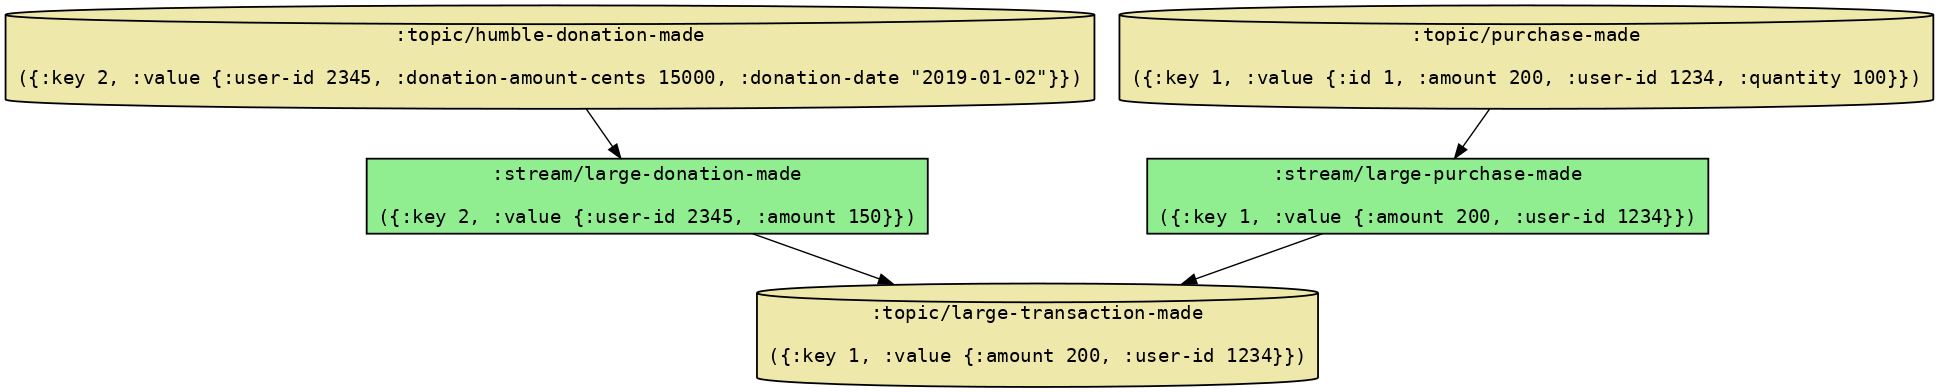
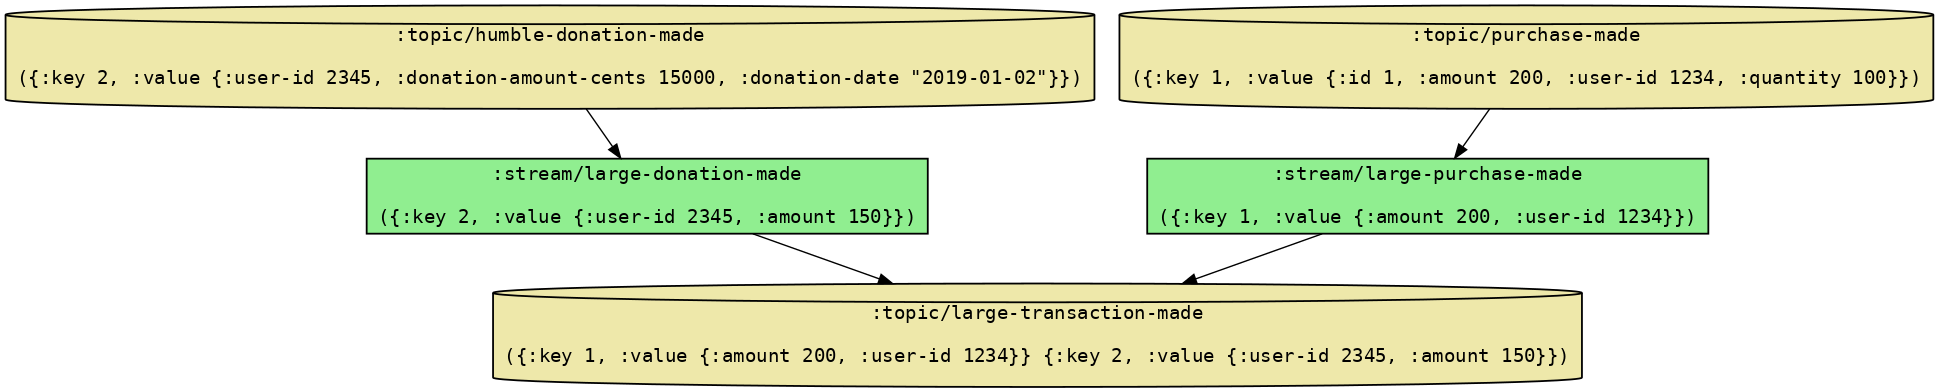
Improved draft

Changed region(s): [[0.2476, 0.7041, 0.8355, 1.0]]

diff --git a/content/posts/kafka-streams-the-clojure-way.md b/content/posts/kafka-streams-the-clojure-way.md
@@ -4,7 +4,9 @@ date: 2019-08-14T00:00:00+01:00
 draft: true
 ---
 
-In this blog post, I'll walk you through how to create a Kafka Streams application in an idiomatic Clojure style. I won't assume any knowledge of Kafka or Kafka Streams, but if you've never heard of them before I'd check out Confluent's [introduction to Kafka Streams](https://www.confluent.io/blog/introducing-kafka-streams-stream-processing-made-simple/), and also the [Kafka Streams docs](https://kafka.apache.org/documentation/streams/). Kafka can be thought of as a persistent, highly scalable, distributed message queue. Kafka stores all messages in "topics", which can be produced to and consumed from. Kafka Streams is an abstraction on top of Kafka, which treats topics as a reactive stream of data onto which you can apply transformations (`map`, `filter`, etc.). It also gives you a way performing stateful aggregations, in such a way that your application can be safely restarted. 
+In this blog post, I'll walk you through how to create a Kafka Streams application in an idiomatic Clojure style. I won't assume any knowledge of Kafka or Kafka Streams, but if you've never heard of them before this post may be a bit overwhelming - I'd check out Confluent's [introduction to Kafka Streams](https://www.confluent.io/blog/introducing-kafka-streams-stream-processing-made-simple/), and also the [Kafka Streams docs](https://kafka.apache.org/documentation/streams/). 
+
+Kafka can be thought of as a persistent, highly scalable, distributed message queue. Kafka stores all messages in "topics", which can be produced to and consumed from. Kafka Streams is an abstraction on top of Kafka, which treats topics as a reactive stream of data onto which you can apply transformations (`map`, `filter`, etc.). It also gives you a way performing stateful aggregations, in such a way that your application can be safely restarted. 
 
 The Java API for Kafka Streams is very powerful, but has a few drawbacks. It gives you a mutable [StreamsBuilder](http://kafka.apache.org/23/javadoc/org/apache/kafka/streams/StreamsBuilder.html) object, on which you call methods like `.map(...)` and `.filter(...)`. You use this builder object to build a [Topology](https://kafka.apache.org/23/javadoc/org/apache/kafka/streams/Topology.html), a logical representation of your application as a graph of processing nodes. You then use the `Topology` to initialise a [KafkaStreams](http://kafka.apache.org/23/javadoc/org/apache/kafka/streams/KafkaStreams.html) object, which executes the topology's logic. We'll develop an application in this style using the [Jackdaw](https://github.com/FundingCircle/jackdaw) library, a Clojure library for Kafka, and then evolve it into a more idiomatic, data-driven style. All the code I'm going to show you is in [this walkthrough repo](https://github.com/DaveWM/kafka-streams-the-clojure-way), so clone it now if you'd like to follow along. 
 
@@ -35,8 +37,9 @@ We'll start by creating the `purchase-made` and `large-transaction-made` topics.
 ;; create the "purchase-made" and "large-transaction-made" topics
 (ja/create-topics! admin-client [purchase-made-topic large-transaction-made-topic])
 ```
+By the way - all the commands we're going to run are in the comment block at the bottom of the `kafka-streams-the-clojure-way.core` namespace. 
 
-We now need to produce some dummy messages onto the `purchase-made` topic. To do this, we’ll create a `Producer` object and pass it to Jackdaw's `produce!` function.  In production code for an API, you’d most likely create a `Producer` when the application starts up, then call `produce!` in the appropriate request handler function. For now, let’s just pretend that we've made a few purchases by producing some messages to the `purchase-made` topic from the repl. These messages are going to look like this:
+We now need to produce some dummy messages onto the `purchase-made` topic. These messages are going to look like this:
 
 ```
 {:id 1
@@ -45,43 +48,46 @@ We now need to produce some dummy messages onto the `purchase-made` topic. To do
  :quantity 5}
 ```
 
-Now we're going to produce a few dummy messages to the `purchase-made` topic. We've already got a `make-purchase!` function defined for us in the `kafka-streams-the-clojure-way.core` namespace, so just run these commands: 
+We've already got a `make-purchase!` function defined for us in the `kafka-streams-the-clojure-way.core` namespace, so just run these commands: 
 
-```
+```clojure
 ;; Make a few dummy purchases
 (make-purchase! 10)
 (make-purchase! 500)
 (make-purchase! 50)
 (make-purchase! 1000)
 ```
+If you're interested in how `make-purchase!` works, check out the code in the walkthrough repo. It uses the Kafka (not Kafka _Streams_) API, so I'll just gloss over it here.
 
  You should see in the [fast-data-dev UI](http://localhost:3030/kafka-topics-ui/#/cluster/fast-data-dev/topic/n/purchase-made/) that messages appear in the topic. Now we have a topic with some dummy data in it, we can start writing our Kafka Streams topology. This is already defined in the walkthrough repo, here's the code:
 
 ```
 (defn simple-topology [builder]
-  (-> ;; Read from the purchase-made topic
+  (-> ;; Read the purchase-made topic into a KStream
       (js/kstream builder purchase-made-topic)
-      ;; Filter for purchases greater than £100
+      ;; Filter the KStream for purchases greater than £100
       (js/filter (fn [[_ purchase]]
                    (<= 100 (:amount purchase))))
       ;; Remove all but the :amount and :user-id fields from the message.
-	  ;; Note that the function passed to map takes and returns a tuple of [key value].
+      ;; Note that the function passed to map takes and returns a tuple of [key value].
       (js/map (fn [[key purchase]]
                 [key (select-keys purchase [:amount :user-id])]))
-	  ;; Write to the large-transaction-made topic
-      (js/to large-transaction-made-topic)))
-	  
-(defn start! [topology-fn]
+      ;; Write our KStream to the large-transaction-made topic
+      (js/to large-transaction-made-topic))) 
+
+(defn start! []
+  "Starts the simple topology"
   (let [builder (js/streams-builder)]
-    (topology-fn builder)
+    (simple-topology builder)
     (doto (js/kafka-streams builder kafka-config)
       (js/start))))
 
 (defn stop! [kafka-streams-app]
+  "Stops the given KafkaStreams application"
   (js/close kafka-streams-app))
 ```
 
-Run `(start! simple-topology)` in the repl to start the topology. You should shortly see messages appear on the `large-transaction-made` topic. Magic! Try producing some more messages to the `purchase-made` topic, and your topology should pick them up and process them immediately. When you're ready to move on, run `(stop!)` to stop the topology.
+Run `(def app (start!))` in the repl to start the topology. You should shortly see messages appear on the `large-transaction-made` topic. Magic! Try producing some more messages to the `purchase-made` topic, and your topology should pick them up and process them immediately. When you're ready to move on, run `(stop! app)` to stop the topology.
 
 
 ## Introducing Transducers
@@ -90,11 +96,12 @@ Run `(start! simple-topology)` in the repl to start the topology. You should sho
 We’ve made a good start, but there are a few problems with our code at the moment. One is that our code is not as easy to test as it could be. We can’t directly test the logic of our topology, because it’s tied to the Kafka Streams API. You can use Kafka's [TopologyTestDriver](https://kafka.apache.org/11/javadoc/org/apache/kafka/streams/TopologyTestDriver.html) to run your topology in memory, but this can be quite cumbersome. It would be much easier if we could express our topology's logic as pure functions, and then then test them. Secondly, our code isn’t very composable. If you have 2 separate topologies, there is no easy way of merging them together. Thirdly, the code is tied to a specific context - Kafka Streams. If you want to re-use the same logic for transforming, for example, a core.async channel you’d be forced to re-write it. 
 
 
-To alleviate these problems, we’re going to use [transducers](https://clojure.org/reference/transducers). Transducers are "a powerful and composable way to build algorithmic transformations that you can reuse in many contexts”. If you’re not familiar with them already, you may want to check out [this introductory blog post](http://blog.cognitect.com/blog/2014/8/6/transducers-are-coming). Let’s write a transducer that captures the logic of our topology:
+To alleviate these problems, we’re going to use [transducers](https://clojure.org/reference/transducers). Transducers are "a powerful and composable way to build algorithmic transformations that you can reuse in many contexts”. Basically, they allow you to encapsulate the logic of transforming a stream of data, without specific knowledge of what the stream _is_. The stream could be a seq, a core.async channel, or a Kafka topic. If you’re not familiar with them already, you may want to check out [this introductory blog post](http://blog.cognitect.com/blog/2014/8/6/transducers-are-coming). Let’s write a transducer that captures the logic of our topology:
 
 ```
 (def purchase-made-transducer
   (comp
+    ;; Note that each step takes a [key value] tuple
     (filter (fn [[_ purchase]]
               (<= 100 (:amount purchase))))
     (map (fn [[key purchase]]
@@ -106,11 +113,11 @@ We can easily test the transducer in the repl like this:
 ```
 (into []
       purchase-made-transducer
-      [[1 {:purchase-id 1 :user-id 2 :amount 10}]
-       [3 {:purchase-id 3 :user-id 4 :amount 500}]])
+      [[1 {:purchase-id 1 :user-id 2 :amount 10 :quantity 1}]
+       [3 {:purchase-id 3 :user-id 4 :amount 500 :quantity 100}]])
 ```
 
-We've successfully isolated the logic of our topology as a pure function. This enables us to easily test our topology's logic. Now we'll update our topology to use this transducer. We're going to introduce the `transduce-stream` function here - you don't need to know exactly how it works, only that it applies a transducer to a `KStream`.
+We've successfully isolated the logic of our topology as a pure function. This enables us to easily test our topology's logic. Now we'll update our topology to use this transducer. We're going to use the `transduce-stream` function here - you don't need to know exactly how it works, only that it applies a transducer to a `KStream`.
 
 ```
 (defn build-topology-with-transducer [builder]
@@ -133,19 +140,17 @@ Unfortunately, your boss now comes to you with another requirement (as they alwa
  ```
 
 
-We’ll need to apply a transducer to the `humble-donation-made`, then use the Kafka Streams `merge` function to merge it with the `purchase-made` stream. Let's start with the transducer for the `humble-donation-made` topic:
+We’ll need to create a `KStream` from the `humble-donation-made` topic, apply a transducer to it, then use Jackdaw's `merge` function to merge it with the `KStream` from our previous topology. Let's start with the transducer for the `humble-donation-made` topic:
 ```
 (def humble-donation-made-transducer
   (comp
+    ;; Again, each step takes a [key value] tuple
     (filter (fn [[_ donation]]
               (<= 10000 (:donation-amount-cents donation))))
     (map (fn [[key donation]]
            [key {:user-id (:user-id donation)
                  :amount (int (/ (:donation-amount-cents donation) 100))}]))))
 ```
-
-
-
 
 Now for the topology itself, this is what the code looks like:
 
@@ -164,26 +169,32 @@ This will work, but we’ve re-introduced all the problems we had before we star
 
 ## Introducing Willa
 
-[Willa](https://github.com/DaveWM/willa) is just such a library. It allows you to express your topology as data and functions, rather than using the mutable `StreamsBuilder` API. Full disclosure - I’m the author of Willa, so if you’re looking for an unbiased critique of it, I’d just stop reading now. Let’s see how it would affect our code. We’ll start by defining all our topics and streams. Willa calls these things “entities”, and you define them like so:
+[Willa](https://github.com/DaveWM/willa) is just such a library. It allows you to express your topology as data and functions, rather than using the mutable `StreamsBuilder` API. Full disclosure - I’m the author of Willa, so if you’re looking for an unbiased critique of it, I’d just stop reading now. Let’s see how it would affect our code. We’ll start by defining all our topics and `KStream`s. In Willa, these are called "entities". We first need to construct a map of entity id to entity config, like so:
 
 ```
 (def entities
-  {:topic/purchase-made (assoc purchase-made-topic ::w/entity-type :topic) ;; We just need to add an entity type to our existing topic config
+  ;; We'll define our topic entities first
+  ;; For the values, we just need to add the ::w/entity-type to our existing topic configs
+  {:topic/purchase-made (assoc purchase-made-topic ::w/entity-type :topic)
    :topic/humble-donation-made (assoc humble-donation-made-topic ::w/entity-type :topic)
    :topic/large-transaction-made (assoc large-transaction-made-topic ::w/entity-type :topic)
-
+   
+   ;; We now define our KStreams
+   ;; This is where we define the transducers we apply to the KStream, as the ::w/xform key
    :stream/large-purchase-made {::w/entity-type :kstream
                                 ::w/xform purchase-made-transducer}
    :stream/large-donation-made {::w/entity-type :kstream
                                 ::w/xform humble-donation-made-transducer}})
 ```
 
-So far so good. We now need to define how our topics and streams relate to each other - how the data flows through our topology. Willa models a topology as a graph (a DAG) of entities. You express this as a vector of tuples. Each tuple has 2 elements, each an entity id, and represents a directed edge on the graph. Willa calls this a “workflow”. Our workflow looks like this:
+So far so good. We now need to define how our topics and streams relate to each other - how the data flows through our topology. Willa models a topology as a graph (a DAG) of entities. You express this as a vector of tuples. Each tuple has 2 elements, in the format `[:entity-id-from :entity-id-to]`, and represents a directed edge on the topology graph. Willa calls this a “workflow”. Our workflow looks like this:
 
 ```
 (def workflow
   [[:topic/purchase-made :stream/large-purchase-made]
    [:topic/humble-donation-made :stream/large-donation-made]
+   
+   ;; When there are multiple edges pointing to the same node, Willa will merge the inputs by default
    [:stream/large-purchase-made :topic/large-transaction-made]
    [:stream/large-donation-made :topic/large-transaction-made]])
 ```
@@ -206,18 +217,19 @@ You should see a diagram like this:
 ![Topology Diagram](/images/topology.png)
 
 
-To get it running, we just need a few lines of code to compile Willa’s representation of our topology into an actual Kafka Streams topology:
+Nice! To get it running, we just need a few lines of code to compile Willa’s representation of our topology into an actual Kafka Streams topology:
 
 ```
 ;; Create the humble-purchase-made topic
 (ja/create-topics! admin-client [humble-donation-made-topic])
 
 ;; Start the topology
-(js/start
-    (w/build-topology! (js/streams-builder) topology))
+(let [builder (js/streams-builder)]
+    (w/build-topology! builder topology)
+    (js/start (js/kafka-streams builder kafka-config)))
 	
-;; Produce a few more messages
-(make-humble-donation! 1000)
+;; Publish a couple of messages to the input topics
+(make-purchase! 200)
 (make-humble-donation! 15000)
 ```
 You should now see some more messages appear in the [large-transaction-made topic](http://localhost:3030/kafka-topics-ui/#/cluster/fast-data-dev/topic/n/large-transaction-made/).
@@ -226,23 +238,24 @@ So now we’ve completely specified our topology as data structures and transduc
 
 ```
 (def experiment-results
-  (we/run-experiment topology
-                     {:topic/purchase-made [{:key 1
-                                             :value {:id 1
-                                                     :amount 200
-                                                     :user-id 1234
-                                                     :quantity 100}}]
-                      :topic/humble-donation-made [{:key 2
-                                                    :value {:user-id 2345
-                                                            :donation-amount-cents 15000
-                                                            :donation-date "2019-01-02"}}]}))
+  (we/run-experiment 
+    topology
+    {:topic/purchase-made [{:key 1
+                            :value {:id 1
+                            :amount 200
+                            :user-id 1234
+                            :quantity 100}}]
+     :topic/humble-donation-made [{:key 2
+                                   :value {:user-id 2345
+                                   :donation-amount-cents 15000
+                                   :donation-date "2019-01-02"}}]}))
 
 
 ;; Visualise experiment result
 (wv/view-topology experiment-results)
 
 
-;; View results as data
+;; View results as data, a map of entity id to messages
 (->> experiment-results
      :entities
      (map (fn [[k v]]
@@ -274,4 +287,4 @@ The real advantage of Willa is that it relies on standard Clojure data structure
 ## Summary
 
 
-I hope that’s given you a brief overview of how to write a basic Kafka Streams topology. If you’re interested in learning more, I’d recommend starting here (TODO - link to good book). We’ve barely scratched the surface of Kafka Streams, there are many more concepts to learn (😓). We haven’t even touched on things like `KTable`s, aggregations, or joins. Willa is just an experiment at this point, but hopefully it’s given you some food for thought. I’d also recommend checking out the [Noah](https://github.com/blak3mill3r/noah) library, that has similar goals but a slightly different approach. Thanks for reading, please don’t hesitate to email me if you have any questions or comments.
+I hope that’s given you a brief overview of how to write a basic Kafka Streams topology. If you’re interested in learning more I’d recommend reading [Kafka 101](https://docs.confluent.io/current/streams/concepts.html#kafka-101) and [Designing Event Driven Systems](https://www.confluent.io/designing-event-driven-systems). I'd also recommend [this Kafka Streams Udemy course](https://www.udemy.com/share/1006h8BUIbeF9VQHw=/?xref=E0cacVdTQnkBSV82AT0GJVUWTx4dChQ%2BVFE=). We’ve barely scratched the surface of Kafka Streams, there are many more concepts to learn (😓). We haven’t even touched on things like `KTable`s, aggregations, or joins. Willa is just an experiment at this point, but hopefully it’s given you some food for thought. I’d also recommend checking out the [Noah](https://github.com/blak3mill3r/noah) library, that has similar goals but a slightly different approach. Thanks for reading, please don’t hesitate to email me if you have any questions or comments.
